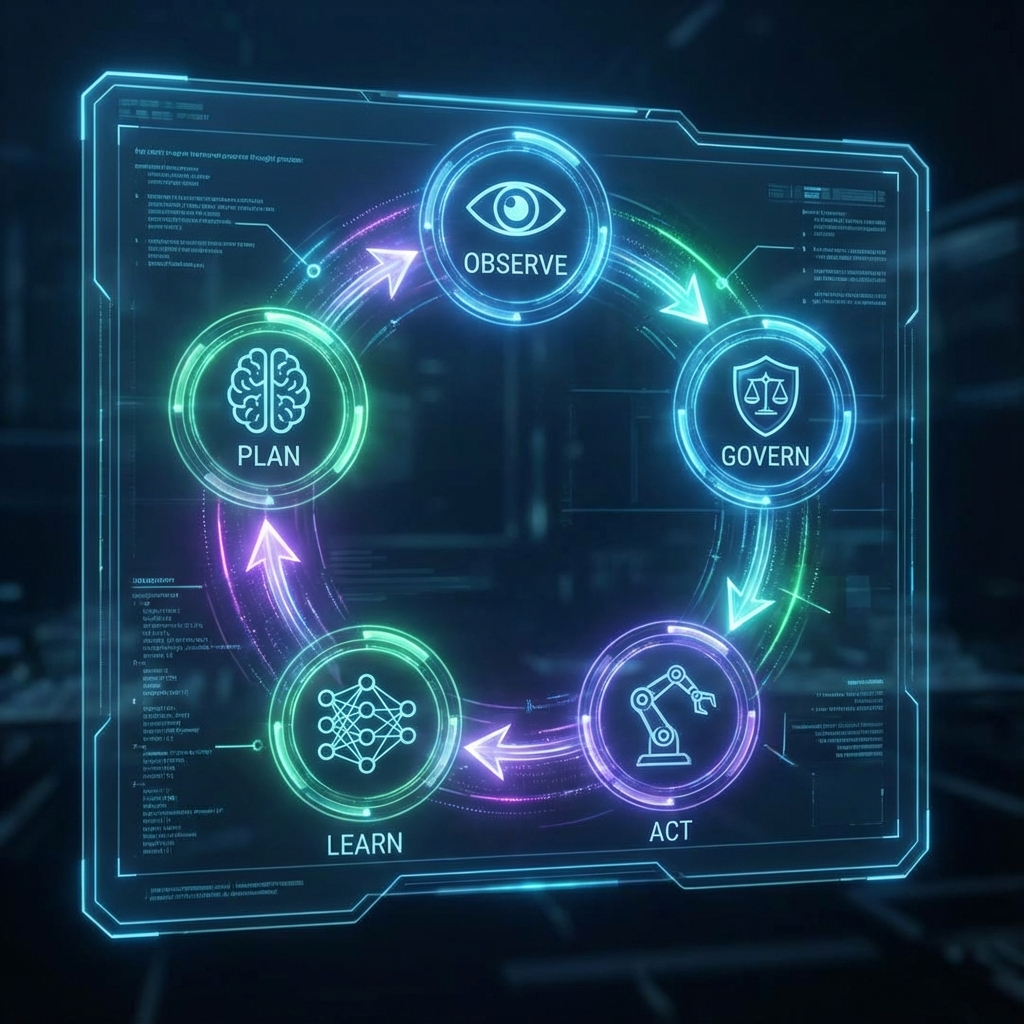
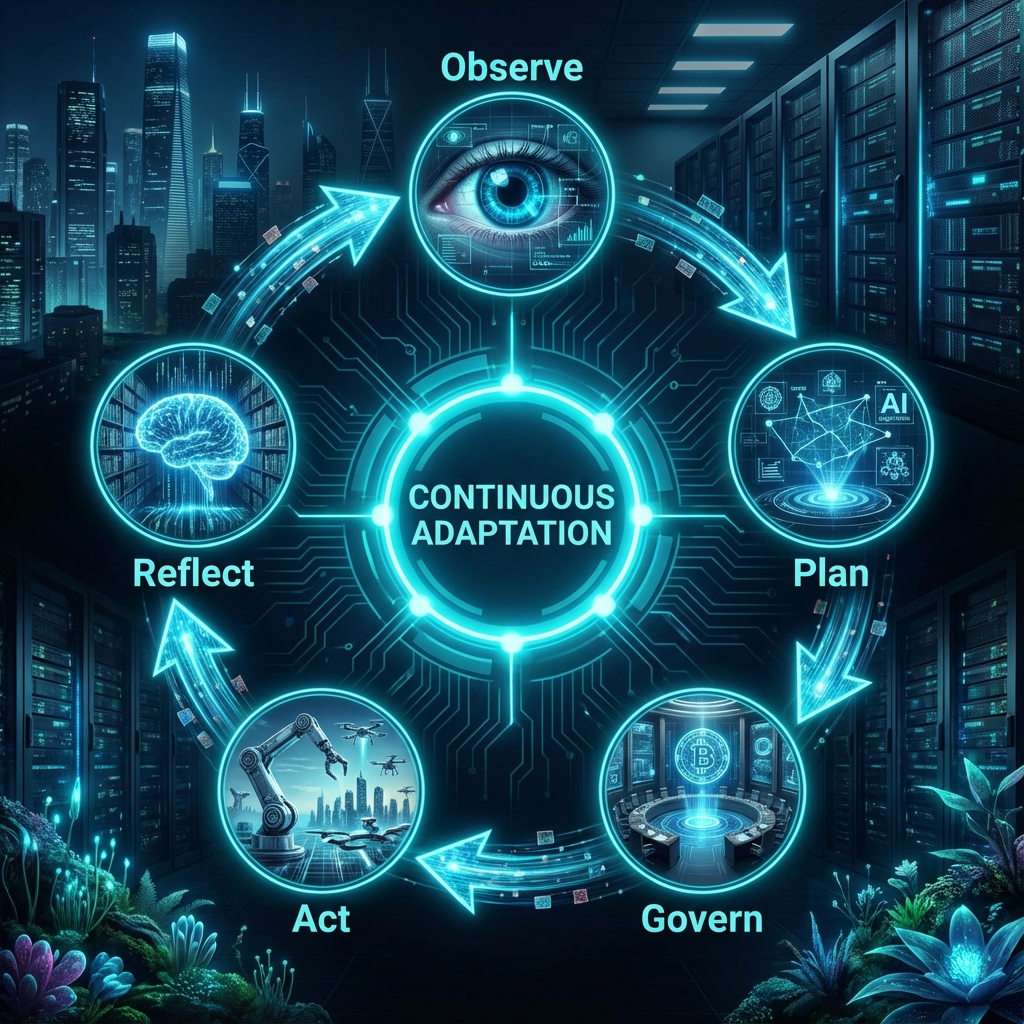
Docs: Final Expansion - Deep dive on Agentic Loop (20Hz), Contributing Filter, and Failure Modes

diff --git a/README.md b/README.md
@@ -19,7 +19,7 @@
   •
   <b><a href="#-proof-verified-behaviors">Proofs</a></b>
   •
-  <b><a href="#-canonical-scenarios-rituals">Rituals</a></b>
+  <b><a href="#-agentic-loop">The Loop</a></b>
   •
   <b><a href="#-roadmap-to-wisdom">Roadmap</a></b>
   <br>
@@ -38,10 +38,6 @@ This system is defined by three axioms:
 3.  **Silence over Noise**: An intelligent system does not chatter. It executes.
 
 **JARVIS** is the Agent. **Atulya Tantra** is the Discipline.
-
-<div align="center">
-  <img src="docs/assets/comparison.png" width="100%" alt="Chatbots vs Atulya Tantra">
-</div>
 
 ---
 
@@ -108,6 +104,28 @@ Trace ID: T-BLOCK-991
 
 ---
 
+## 🔄 The Agentic Loop (20Hz)
+
+The system runs on a continuous **Observe-Plan-Govern-Act** cycle, operating at a 20Hz heartbeat.
+
+<div align="center">
+  <img src="docs/assets/agentic_loop.png" width="90%" alt="Agentic Loop">
+</div>
+
+### Cycle Mechanics
+*   **0-5ms (Observe)**: The `SensorOrgan` aggregates signals from File Watchers, Log Streamers, and Input Buffers.
+*   **5-50ms (Plan)**: If a signal exceeds the "Attention Threshold", the `LogicOrgan` wakes up. It asks: *Does this require Action?*
+*   **50-100ms (Govern)**: The `Governor` intercepts the proposed plan. It checks against the Forbidden List and Risk Tier.
+*   **100ms+ (Act)**: If approved, the `Executor` runs the tool chain.
+*   **Post-Act (Reflect)**: The outcome is written to the `ActionLedger`.
+
+**Signal Types:**
+1.  **User Pulse**: Explicit command via CLI or Voice.
+2.  **System Pulse**: Unhandled Exception detected in logs.
+3.  **Evolution Pulse**: Periodic self-check (once per hour).
+
+---
+
 ## 🧪 Canonical Scenarios (The Rituals)
 
 To verify the "Aliveness" of the system, run these rituals.
@@ -129,58 +147,19 @@ To verify the "Aliveness" of the system, run these rituals.
 
 ---
 
-## 🔄 The Agentic Loop (20Hz)
-
-<div align="center">
-  <img src="docs/assets/dashboard.png" width="100%" alt="Cognitive Dashboard">
-</div>
-
-The system runs on a continuous **Observe-Plan-Govern-Act** cycle.
-1.  **Observe**: Sensors capture state changes.
-2.  **Plan**: Logic Organ formulates a strategy.
-3.  **Govern**: Governor vets the strategy.
-4.  **Act**: Executor modifies reality.
-5.  **Reflect**: Brain updates the ledger.
-
----
-
 ## 🚫 Failure Modes & Anti-Goals
 
 We value rigorous honesty. This system has known constraints.
 
 ### Anti-Goals (What We Will Not Do)
-*   We will not prioritize "Personality" over **Utility**.
-*   We will not allow "Silent" file deletions (Traceability is mandatory).
-*   We will not use Cloud APIs for local reflexes (Privacy/Speed).
+*   **No Chatbot UI**: We will not build a React frontend. The terminal is the interface.
+*   **No "Personality" Tuning**: We will not optimize for "friendly" or "sassy". We optimize for "concise".
+*   **No Silent Mods**: The system will never edit a file without leaving a Trace ID in the logs.
 
 ### Known Failure Modes
-*   **Decoder Loop**: Rarely, the local RWKV model may loop on specific tokens. We mitigate this with "Hard Stop" monitoring.
-*   **Context Window**: Extremely large files may be truncated during reading.
-*   **Ambiguity**: Vague commands ("Do something") result in paralysis/questioning, not guessing.
-
----
-
-## 🚀 Getting Started
-
-### 1. Installation
-```bash
-git clone https://github.com/atulyaai/Atulya-Tantra.git
-cd Atulya-Tantra
-pip install -r requirements.txt
-python tools/bootstrap.py
-```
-
-### 2. "Wake" Command (One-Shot)
-Execute a complex task instantly.
-```bash
-python main.py "Scan the core directory and summarize the logic structure"
-```
-
-### 3. "Presence" Mode (Daemon)
-Run as a background service.
-```bash
-python main.py --presence
-```
+*   **Decoder Loop (The "Yapping" Bug)**: Rarely, the local RWKV model may get stuck repeating a token. We mitigate this with a "Hard Stop" circuit that kills the generation after 100 tokens if no stop token is found.
+*   **Gemini Latency**: Complex reasoning trips to the cloud can take 1-2 seconds. The system "freezes" during this thought process.
+*   **Ambiguity Paralysis**: If you say "Do the thing", it will ask "What thing?". It does not guess.
 
 ---
 
@@ -190,19 +169,42 @@ python main.py --presence
   <img src="docs/assets/timeline.png" width="100%" alt="Roadmap">
 </div>
 
-*   **Phase 1: Consolidation** (✅ Complete)
-*   **Phase 2: Autonomy** (✅ Complete)
-*   **Phase 3: Wisdom** (🚧 In Progress) - Reflection & Cost Awareness
-*   **Phase 4: Skynet** (🔮 Future) - Swarm Intelligence & Embodiment
+### ✅ Phase 1: Consolidation (Completed)
+*   Merged 60+ scattered scripts into 5 Organs.
+*   Established standard `main.py` entry point.
+*   Implemented "Decoder Discipline" for local models.
+
+### ✅ Phase 2: Autonomy (Completed)
+*   Closed the Observe-Plan-Act loop.
+*   Implemented `Governor.authorize()` for safety.
+*   Added `TraceID` system for accountability.
+
+### 🚧 Phase 3: Wisdom (In Progress)
+*   **Cost Awareness**: Calculate token cost ($) before executing Cloud queries.
+*   **Reflection**: If Plan A fails, remember it. Don't try Plan A again for the same task.
+*   **Self-Repair**: Ability to parse a Python stacktrace and auto-patch the offending line.
+
+### 🔮 Phase 4: Skynet (Future)
+*   **Swarm Intelligence**: Multiple JARVIS instances sharing a memory pool.
+*   **Docker Embodiment**: Ability to spin up containers for risky tasks.
+*   **Peripheral Control**: Full keyboard/mouse injection for GUI tasks.
 
 ---
 
 ## 🧬 Contributing (The Filter)
 
 **Warning**: This is not a standard Python project. It is an Organism.
-1.  **Do not break the Laws**. Any PR that weakens Governance will be rejected.
-2.  **Respect the Ledger**. New tools must report success/failure.
-3.  **Maintain Silence**. Debug logs go to files, not stdout.
+
+### The 3 Commandments
+1.  **Do Not Break the Laws**: Any PR that weakens the `Governor` or removes a safety check will be rejected immediately.
+2.  **Respect the Ledger**: New tools **MUST** return a success/failure boolean. Tools that fail silently are banned.
+3.  **Maintain Silence**: `print()` is forbidden in `core/`. Use `logging` or return strings to the `Engine`.
+
+### How to Add a Tool
+1.  Define a function in `core/logic.py`.
+2.  Register it in the `Executor.tools` dictionary.
+3.  **CRITICAL**: Add it to the `Governor` whitelist in `core/governance.py`.
+4.  Write a test case in `tests/integration/`.
 
 ---
 
